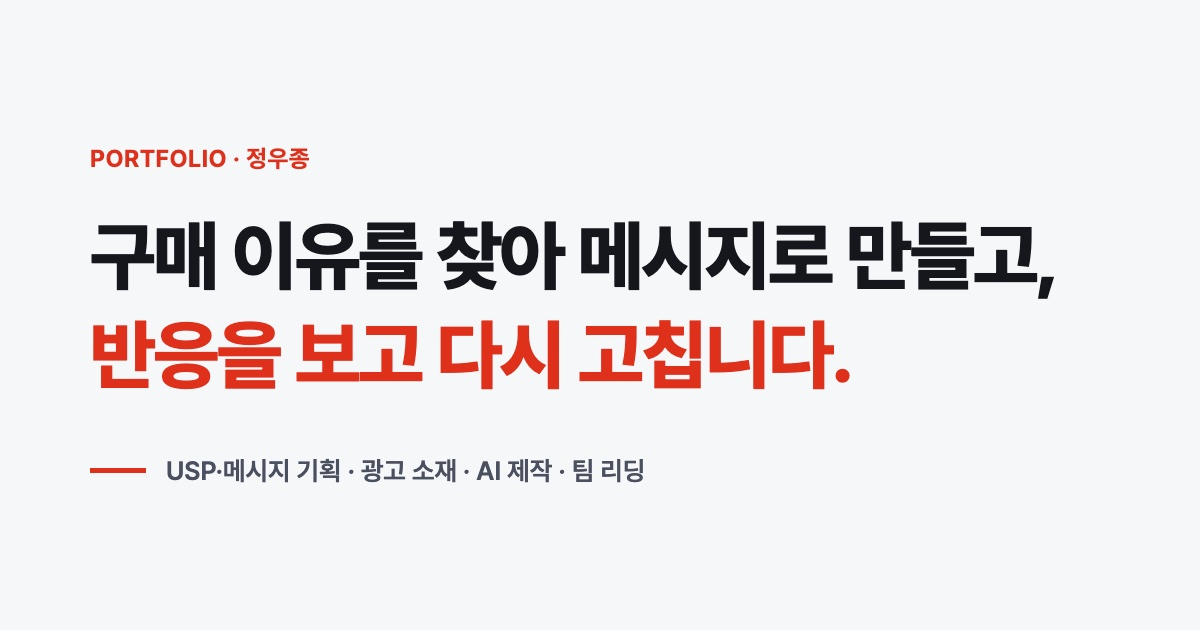
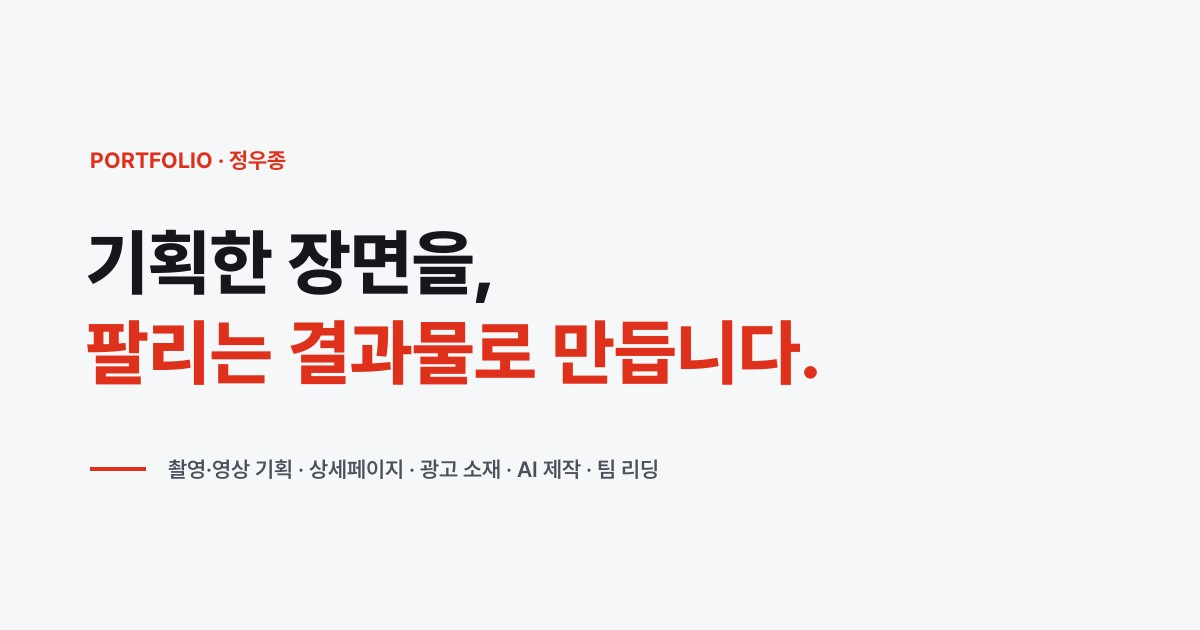
Add files via upload

diff --git a/creative/index.html b/creative/index.html
@@ -6,12 +6,12 @@
 <meta name="robots" content="noindex,nofollow">
 <meta property="og:type" content="website">
 <meta property="og:title" content="정우종 | 콘텐츠·크리에이티브 리드 포트폴리오">
-<meta property="og:description" content="구매 이유를 찾아 메시지로 만들고, 반응을 보고 다시 고칩니다.">
+<meta property="og:description" content="기획한 장면을, 팔리는 결과물로 만듭니다.">
 <meta property="og:url" content="https://shopaaddict88-del.github.io/portfolio-wj/creative/">
 <meta property="og:image" content="https://shopaaddict88-del.github.io/portfolio-wj/creative/og.jpg">
 <meta property="og:image:width" content="1200">
 <meta property="og:image:height" content="630">
-  <meta property="og:image:alt" content="구매 이유를 찾아 메시지로 만들고, 반응을 보고 다시 고칩니다. 정우종 포트폴리오">
+  <meta property="og:image:alt" content="기획한 장면을, 팔리는 결과물로 만듭니다. 정우종 포트폴리오">
 <meta name="twitter:card" content="summary_large_image">
 <meta name="twitter:image" content="https://shopaaddict88-del.github.io/portfolio-wj/creative/og.jpg">
 <title>정우종 | 콘텐츠·크리에이티브 리드 포트폴리오</title>
@@ -1091,16 +1091,16 @@
 })();
 </script>
 <section class="hero">
-  <div class="hero__label">크리에이티브 기획 리드 · 정우종</div>
-  <h1 class="t-display" style="max-width:none;">구매 이유를 찾아 메시지로 만들고,<br>반응을 보고 <span style="white-space:nowrap">다시 고칩니다.</span></h1>
+  <div class="hero__label">콘텐츠·크리에이티브 리드 · 정우종</div>
+  <h1 class="t-display" style="max-width:none;">기획한 장면을,<br>팔리는 <span style="white-space:nowrap">결과물로 만듭니다.</span></h1>
   <p class="hero__desc t-body">
-    14년간 이커머스와 크라우드펀딩에서 제품의 USP와 타깃을 정하고, 고객이 공감할 메시지를 상세페이지와 광고 소재로 옮겨 왔습니다.<br>소재를 내보낸 뒤에는 클릭률과 전환율을 보고 멈출 것과 늘릴 것을 정했습니다.
+    14년간 이커머스와 크라우드펀딩에서 제품의 USP와 타깃을 정하고, 촬영 콘셉트부터 상세페이지·광고 소재까지 직접 기획하고 디렉팅해 왔습니다.<br>소재를 내보낸 뒤에는 클릭률과 전환율을 보고 멈출 것과 늘릴 것을 정했습니다.
   </p>
   <p class="hero__desc t-body" style="margin-top:14px;">
     위메프에서 약 30인, 5개 파트 규모의 디자인 조직 팀장으로 리뷰와 교육을 운영했고, 비티와이플러스에서는 기획자·디자이너·포토그래퍼 6~8명과 매월 20~30개 프로젝트를 이끌었습니다.
   </p>
   <ul class="proof-tags hero__proof" aria-label="뒷받침하는 이력">
-    <li>와디즈 프로젝트 콘텐츠 1,000건 이상 기획·디렉팅</li><li>메타 광고 소재 기획·운영과 개선</li><li>생성형 AI로 모델 컷·영상 제작</li><li>위메프 약 30인·5개 파트 조직 팀장</li>
+    <li>와디즈 프로젝트 콘텐츠 1,000건 이상 기획·디렉팅</li><li>패션 룩북·광고 영상 촬영 기획·디렉팅</li><li>메타 광고 소재 기획·운영과 개선</li><li>생성형 AI로 모델 컷·영상 제작</li><li>위메프 약 30인·5개 파트 조직 팀장</li>
   </ul>
   <div class="hero__cta">
     <a href="#work" class="btn btn--solid">대표 사례 보기</a>
@@ -1130,11 +1130,11 @@
 <section class="r" id="about">
   <div class="sec-head">
     <div class="eyebrow">About</div>
-    <h2 class="t-title">구매 이유를 찾아 메시지로 만들고,<br>반응을 보고 <span style="white-space:nowrap">다시 고칩니다</span></h2>
+    <h2 class="t-title">와디즈 1,000건 넘는 프로젝트를,<br>기획부터 <span style="white-space:nowrap">제작까지 이끌었습니다</span></h2>
   </div>
   <div class="bx-body t-body">
-    <p>이커머스와 크라우드펀딩에서 약 14년간 제품이 팔리는 이유를 찾아 메시지로 만들고,<br>상세페이지·광고 소재·촬영·영상으로 옮겨 왔습니다. 위메프에서는 약 30인 디자인 조직의 팀장을,<br>비티와이플러스에서는 와디즈 크라우드펀딩 콘텐츠 1,000건 이상의 제작 총괄을 맡았습니다.</p>
-    <p>저는 비티와이플러스에서 매월 20~30개 프로젝트를 카테고리 구분 없이 동시에 운영했습니다.<br>기획자·디자이너와 초반 기획부터 함께하며 메시지, 상세페이지, 광고 소재까지 만들었고, 광고 반응을 보고 소재를 고쳤습니다.<br>촬영이 필요한 컷을 AI로 만들어 시간과 비용을 줄였고, 리서치와 기획에도 AI를 써 왔습니다.</p>
+    <p>비티와이플러스에서 와디즈 공식파트너사의 크리에이티브 제작을 총괄하며, 회사 기준 누적 펀딩액 150억 원 이상(직접 진행한 프로젝트 기준 50억 원 이상)을 만들었습니다.<br>로지텍·플레이모빌·포켓몬스터 같은 글로벌 브랜드와 IP는 가이드라인을 지키면서 국내 고객에게 맞는 콘텐츠로 옮겼습니다.</p>
+    <p>카테고리 구분 없이 여러 프로젝트를 동시에 운영하면서, 기획자·디자이너·포토그래퍼와 초반 기획부터 촬영, 상세페이지, 광고 소재까지 함께 만들었습니다.</p>
   </div>
   <div class="kk-step" style="margin-top:44px;">
     <h3 class="t-sub">이렇게 일해 왔습니다</h3>
